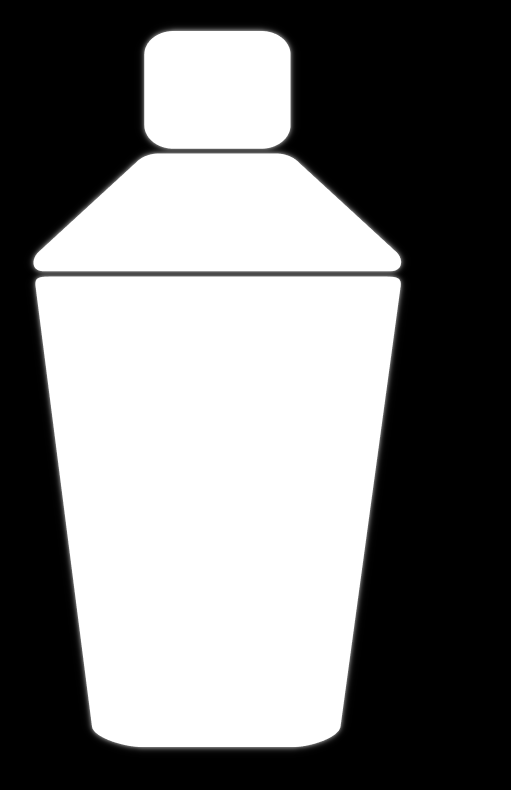
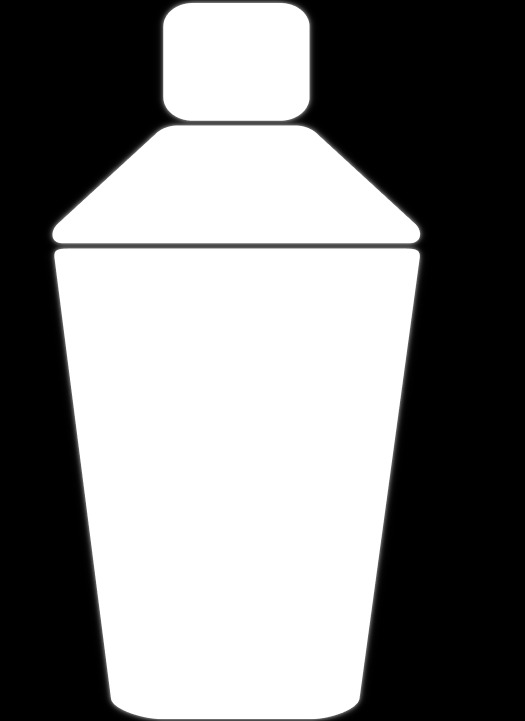
firebase fixes

Changed region(s): [[0.0587, 0.0, 0.8219, 1.0], [0.2055, 0.2136, 0.2348, 0.2441]]

diff --git a/src/components/auth/firebaseConfig.js b/src/components/auth/firebaseConfig.js
@@ -3,17 +3,16 @@
 
 // <!-- TODO: Add SDKs for Firebase products that you want to use
 //      https://firebase.google.com/docs/web/setup#available-libraries -->
-import api from './firebaseapikey'
 
   // Your web app's Firebase configuration
-  export const firebaseConfig = {
-    apiKey: api,
+export const firebaseConfig = {
+    apiKey: "AIzaSyAhuEzoCLL0HZ0CXmDBzqC90n7t0D7U0K0",
     authDomain: "ld-shakeitup.firebaseapp.com",
     projectId: "ld-shakeitup",
     databaseURL: "https://ld-shakeitup-default-rtdb.firebaseio.com/",
     storageBucket: "ld-shakeitup.appspot.com",
     messagingSenderId: "43676930958",
     appId: "1:43676930958:web:52762c21cdd275ced20adf"
-  };
+};
   // Initialize Firebase
 //   firebase.initializeApp(firebaseConfig);

diff --git a/src/components/auth/FirebaseProvider.js b/src/components/auth/FirebaseProvider.js
@@ -1,6 +1,5 @@
 import React, { createContext, useEffect, useState } from 'react'
 import firebase from 'firebase'
-import { firebaseConfig } from './firebaseConfig';
 import { Spinner } from 'react-bootstrap';
 import 'firebase/auth'
 
@@ -65,7 +64,7 @@ export const FirebaseProvider = (props) => {
 
     const checkUser = (userId) => {
         console.log("checkUser", userId)
-        fetch(`${firebaseConfig.databaseURL}/users.json/?orderby="uid"&equalTo="${firebase.auth().currentUser.uid}"`)
+        fetch(`${firebase.auth()}/users.json/?orderby="uid"&equalTo="${firebase.auth().currentUser.uid}"`)
         .then(result => result.json())
         .then(parsedResponse => {
             let resultArray = Object.keys(parsedResponse)

diff --git a/src/components/builder/IngredientCard.css b/src/components/builder/IngredientCard.css
@@ -61,23 +61,25 @@
   position: relative;
   bottom: 0px;
   z-index: 2;
-  min-height: 25.4em;
+  min-height: 25.8em;
   height: 100%;
   border-radius: 2em;
   background-color: aliceblue;
 }
 
 .imagetop {
+  margin-top: 1em;
   position: absolute;
-  height: 55%;
+  height: 51%;
   width: auto;
   z-index: 3;
   pointer-events: none;
 }
 
+
 .shakerbox-active img {
   position: absolute;
-  height: 100%;
+  height: 97%;
   width: auto;
   z-index: 3;
 
